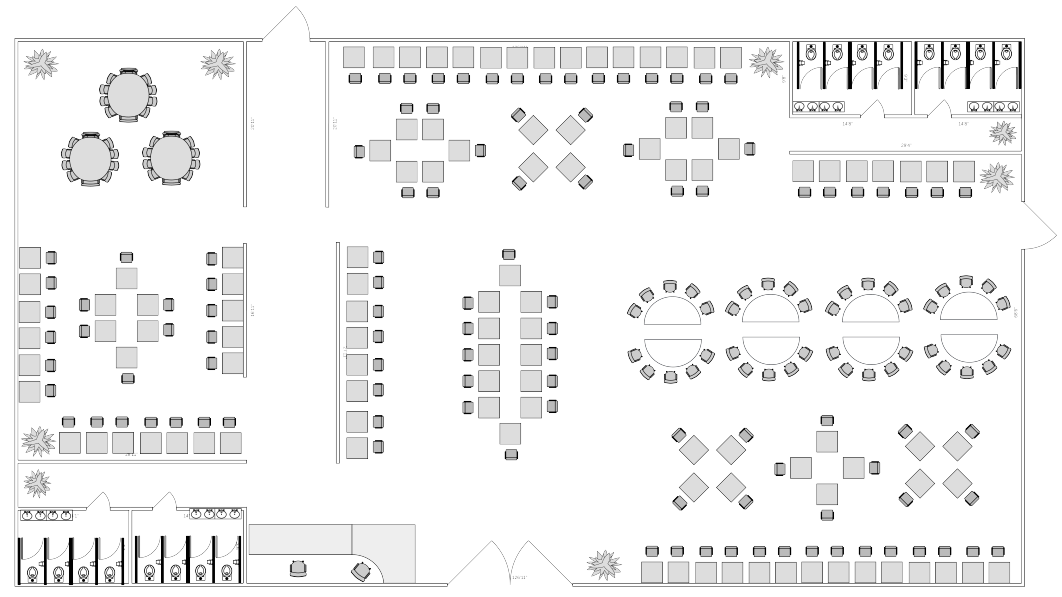
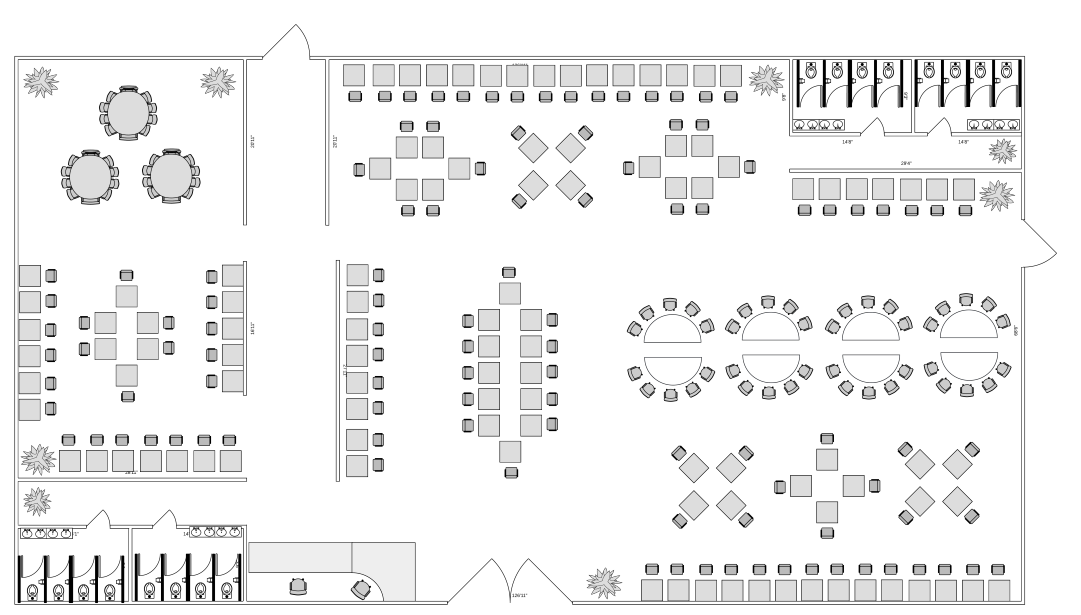
added more slots + resized floorplan

diff --git a/UIX/interactive-floorplan.js b/UIX/interactive-floorplan.js
@@ -43,15 +43,46 @@ const machines = [
     { id: 39, top: 30.03, left: 84.14, name: "Slot Machine 39", type: "x Slot", minBet: "$2" },
     { id: 40, top: 30.03, left: 86.66, name: "Slot Machine 40", type: "x Slot", minBet: "$2" },
     { id: 41, top: 30.03, left: 89.05, name: "Slot Machine 41", type: "x Slot", minBet: "$2" },
-    { id: 42, top: 300, left: 250, name: "Slot Machine 42", type: "x Slot", minBet: "$5" },
-    { id: 43, top: 100, left: 100, name: "Slot Machine 43", type: "x Slot", minBet: "$2" },
-    { id: 44, top: 500, left: 350, name: "Slot Machine 44", type: "x Slot", minBet: "$2" },
-    { id: 45, top: 500, left: 350, name: "Slot Machine 45", type: "x Slot", minBet: "$2" },
-    { id: 46, top: 500, left: 350, name: "Slot Machine 46", type: "x Slot", minBet: "$2" },
-    { id: 47, top: 500, left: 350, name: "Slot Machine 47", type: "x Slot", minBet: "$2" },
-    { id: 48, top: 500, left: 350, name: "Slot Machine 48", type: "x Slot", minBet: "$2" },
-    { id: 49, top: 500, left: 350, name: "Slot Machine 49", type: "x Slot", minBet: "$2" },
-    { id: 50, top: 500, left: 350, name: "Slot Machine 50", type: "x Slot", minBet: "$2" }
+    { id: 42, top: 44.27, left: 2.6, name: "Slot Machine 42", type: "x Slot", minBet: "$5" },
+    { id: 43, top: 48.44, left: 2.6, name: "Slot Machine 43", type: "x Slot", minBet: "$2" },
+    { id: 44, top: 53.04, left: 2.6, name: "Slot Machine 44", type: "x Slot", minBet: "$2" },
+    { id: 45, top: 57.42, left: 2.6, name: "Slot Machine 45", type: "x Slot", minBet: "$2" },
+    { id: 46, top: 61.81, left: 2.6, name: "Slot Machine 46", type: "x Slot", minBet: "$2" },
+    { id: 47, top: 65.75, left: 2.6, name: "Slot Machine 47", type: "x Slot", minBet: "$2" },
+    { id: 48, top: 47.78, left: 11.54, name: "Slot Machine 48", type: "x Slot", minBet: "$2" },
+    { id: 49, top: 60.27, left: 11.54, name: "Slot Machine 49", type: "x Slot", minBet: "$2" },
+    { id: 50, top: 51.72, left: 9.65, name: "Slot Machine 50", type: "x Slot", minBet: "$2" },
+    { id: 51, top: 55.89, left: 9.65, name: "Slot Machine 51", type: "x Slot", minBet: "$2" },
+    { id: 52, top: 51.72, left: 13.42, name: "Slot Machine 52", type: "x Slot", minBet: "$2" },
+    { id: 53, top: 55.89, left: 13.42, name: "Slot Machine 53", type: "x Slot", minBet: "$2" },
+    { id: 54, top: 44.27, left: 21.48, name: "Slot Machine 54", type: "x Slot", minBet: "$2" },
+    { id: 55, top: 48.44, left: 21.48, name: "Slot Machine 55", type: "x Slot", minBet: "$2" },
+    { id: 56, top: 52.60, left: 21.48, name: "Slot Machine 56", type: "x Slot", minBet: "$2" },
+    { id: 57, top: 56.98, left: 21.48, name: "Slot Machine 57", type: "x Slot", minBet: "$2" },
+    { id: 58, top: 61.37, left: 21.48, name: "Slot Machine 58", type: "x Slot", minBet: "$2" },
+    { id: 59, top: 73.86, left: 6.38, name: "Slot Machine 59", type: "x Slot", minBet: "$2" },
+    { id: 60, top: 73.86, left: 8.89, name: "Slot Machine 60", type: "x Slot", minBet: "$2" },
+    { id: 61, top: 73.86, left: 11.28, name: "Slot Machine 61", type: "x Slot", minBet: "$2" },
+    { id: 62, top: 73.86, left: 13.80, name: "Slot Machine 62", type: "x Slot", minBet: "$2" },
+    { id: 63, top: 73.86, left: 16.19, name: "Slot Machine 63", type: "x Slot", minBet: "$2" },
+    { id: 64, top: 73.86, left: 18.71, name: "Slot Machine 64", type: "x Slot", minBet: "$2" },
+    { id: 65, top: 73.86, left: 21.22, name: "Slot Machine 65", type: "x Slot", minBet: "$2" },
+    { id: 66, top: 500, left: 350, name: "Slot Machine 66", type: "x Slot", minBet: "$2" },
+    { id: 67, top: 500, left: 350, name: "Slot Machine 67", type: "x Slot", minBet: "$2" },
+    { id: 68, top: 500, left: 350, name: "Slot Machine 68", type: "x Slot", minBet: "$2" },
+    { id: 69, top: 500, left: 350, name: "Slot Machine 69", type: "x Slot", minBet: "$2" },
+    { id: 70, top: 500, left: 350, name: "Slot Machine 70", type: "x Slot", minBet: "$2" },
+    { id: 71, top: 500, left: 350, name: "Slot Machine 71", type: "x Slot", minBet: "$2" },
+    { id: 72, top: 500, left: 350, name: "Slot Machine 72", type: "x Slot", minBet: "$2" },
+    { id: 73, top: 500, left: 350, name: "Slot Machine 73", type: "x Slot", minBet: "$2" },
+    { id: 74, top: 500, left: 350, name: "Slot Machine 74", type: "x Slot", minBet: "$2" },
+    { id: 75, top: 500, left: 350, name: "Slot Machine 75", type: "x Slot", minBet: "$2" },
+    { id: 76, top: 500, left: 350, name: "Slot Machine 76", type: "x Slot", minBet: "$2" },
+    { id: 77, top: 500, left: 350, name: "Slot Machine 77", type: "x Slot", minBet: "$2" },
+    { id: 78, top: 500, left: 350, name: "Slot Machine 78", type: "x Slot", minBet: "$2" },
+    { id: 79, top: 500, left: 350, name: "Slot Machine 79", type: "x Slot", minBet: "$2" },
+    { id: 80, top: 500, left: 350, name: "Slot Machine 80", type: "x Slot", minBet: "$2" },
+
 
 ];
 
